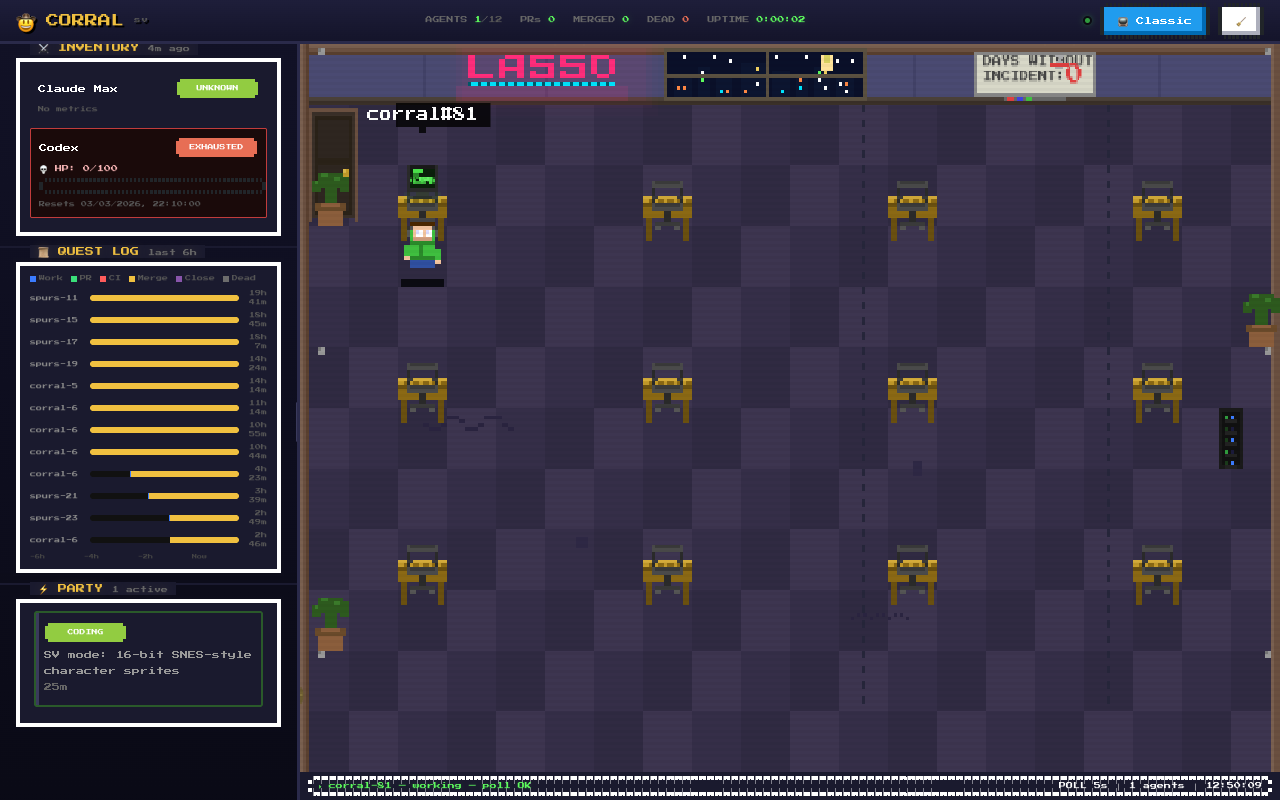
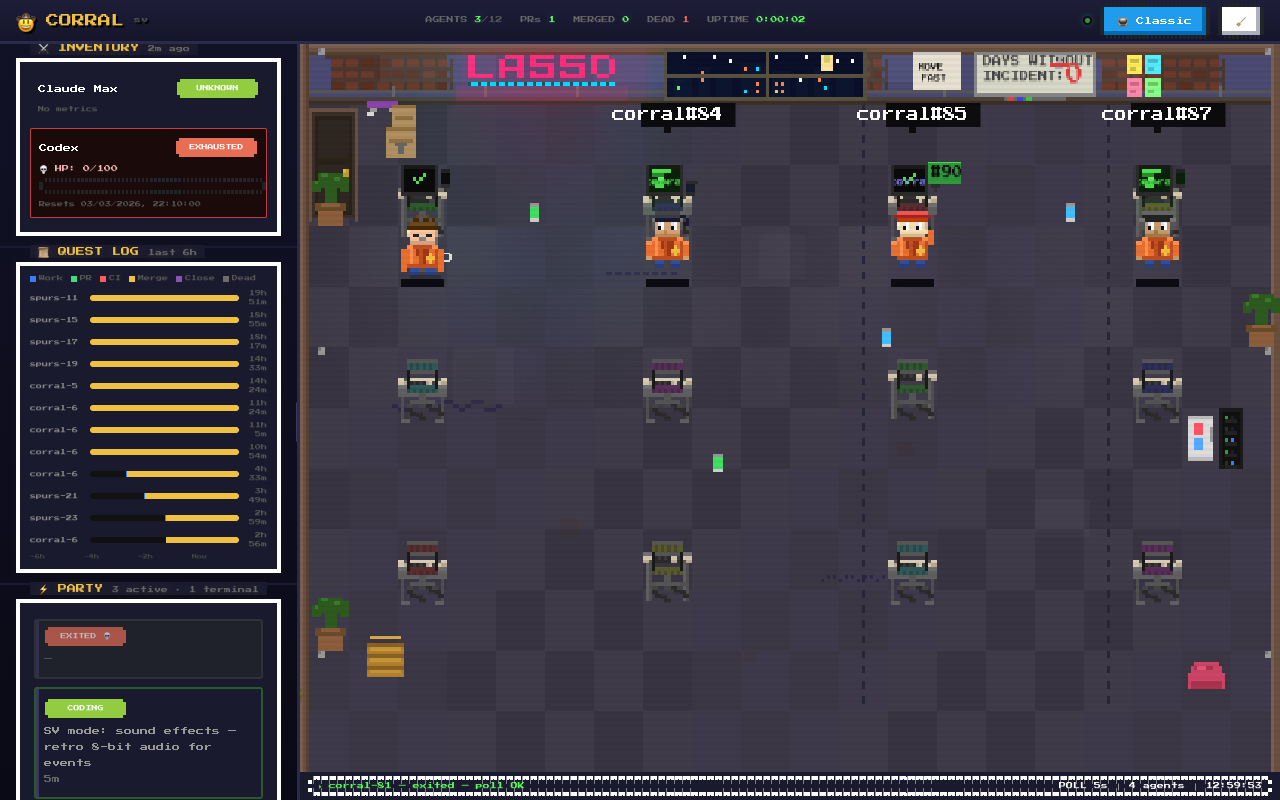
SV mode: day/night cycle matching real time (#87) (#91)
Add ambient time-based lighting to SV canvas scene using local time.
Dawn (6-8AM) and dusk (6-8PM) show warm orange tint with smooth
sine-curve transitions. Night (8PM-6AM) applies blue overlay with
enhanced neon sign glow, brighter ceiling lights, and monitor light
pools. Window reflects sky color changes with stars/moon at night.

diff --git a/sv.html b/sv.html
@@ -1462,6 +1462,48 @@ function detectNewAgents() {
 function R(x, y, w, h, color) { ctx.fillStyle = color; ctx.fillRect(x, y, w, h); }
 function tileRect(tx, ty, tw, th, color) { R(tx * S, ty * S, tw * S, th * S, color); }
 
+// === DAY/NIGHT CYCLE ===
+function getTimeOfDay() {
+  const now = new Date();
+  const h = now.getHours() + now.getMinutes() / 60;
+  // nightFactor: 0 = full day, 1 = full night
+  // Smooth sine-based transitions during dawn (6-8) and dusk (18-20)
+  let nightFactor;
+  if (h >= 8 && h < 18) {
+    nightFactor = 0; // day
+  } else if (h >= 20 || h < 6) {
+    nightFactor = 1; // night
+  } else if (h >= 6 && h < 8) {
+    // dawn: 1 → 0 over 2 hours
+    nightFactor = 0.5 + 0.5 * Math.cos((h - 6) / 2 * Math.PI);
+  } else {
+    // dusk (18-20): 0 → 1 over 2 hours
+    nightFactor = 0.5 - 0.5 * Math.cos((h - 18) / 2 * Math.PI);
+  }
+  // warmFactor peaks during dawn/dusk
+  let warmFactor = 0;
+  if (h >= 6 && h < 8) warmFactor = Math.sin((h - 6) / 2 * Math.PI);
+  else if (h >= 18 && h < 20) warmFactor = Math.sin((h - 18) / 2 * Math.PI);
+  return { nightFactor, warmFactor, hour: h };
+}
+
+function drawDayNightOverlay() {
+  const { nightFactor, warmFactor } = getTimeOfDay();
+  if (nightFactor <= 0 && warmFactor <= 0) return;
+  ctx.save();
+  // Night blue overlay
+  if (nightFactor > 0) {
+    ctx.fillStyle = 'rgba(10,10,40,' + (0.3 * nightFactor).toFixed(3) + ')';
+    ctx.fillRect(0, 0, COLS * TILE * SCALE, ROWS * TILE * SCALE);
+  }
+  // Dawn/dusk warm overlay
+  if (warmFactor > 0) {
+    ctx.fillStyle = 'rgba(255,160,50,' + (0.1 * warmFactor).toFixed(3) + ')';
+    ctx.fillRect(0, 0, COLS * TILE * SCALE, ROWS * TILE * SCALE);
+  }
+  ctx.restore();
+}
+
 function drawFloor() {
   for (let r = 0; r < ROWS; r++)
     for (let c = 0; c < COLS; c++) {
@@ -1504,21 +1546,48 @@ function drawGarageFrame() {
 function drawWindow() {
   ctx.save(); ctx.scale(SCALE, SCALE);
   const x = 120, y = 2, w = 64, h = 12;
-  R(x, y, w, h, '#0a1029');
+  const { nightFactor, warmFactor, hour } = getTimeOfDay();
+  // Sky color: lerp between day blue and night dark
+  const skyR = Math.round(10 + (1 - nightFactor) * 60 + warmFactor * 80);
+  const skyG = Math.round(16 + (1 - nightFactor) * 80 + warmFactor * 40);
+  const skyB = Math.round(41 + (1 - nightFactor) * 100);
+  const skyColor = 'rgb(' + Math.min(skyR,255) + ',' + Math.min(skyG,255) + ',' + Math.min(skyB,255) + ')';
+  R(x, y, w, h, skyColor);
+  // Building silhouette color: darker at night, slightly lighter during day
+  const bldR = Math.round(12 + (1 - nightFactor) * 30);
+  const bldG = Math.round(21 + (1 - nightFactor) * 30);
+  const bldB = Math.round(48 + (1 - nightFactor) * 30);
+  const bldColor = 'rgb(' + bldR + ',' + bldG + ',' + bldB + ')';
   const buildings = [[x+2,y+6,6,6],[x+10,y+4,4,8],[x+16,y+7,5,5],[x+24,y+3,8,9],[x+34,y+5,6,7],[x+42,y+6,4,6],[x+48,y+4,5,8],[x+55,y+7,6,5]];
+  // Building window lights: more visible at night
+  const windowChance = 0.3 + nightFactor * 0.4;
   buildings.forEach(([bx,by,bw,bh]) => {
-    ctx.fillStyle = '#0c1530'; ctx.fillRect(bx, by, bw, bh);
+    ctx.fillStyle = bldColor; ctx.fillRect(bx, by, bw, bh);
     for (let wx = bx + 1; wx < bx + bw - 1; wx += 2)
       for (let wy = by + 1; wy < by + bh - 1; wy += 2)
-        if (Math.random() > 0.5) {
+        if (Math.random() > (1 - windowChance)) {
           ctx.fillStyle = ['#f0d060','#5dfc5d','#00e5ff','#ff8844','#fff'][Math.floor(Math.random()*5)];
           ctx.fillRect(wx, wy, 1, 1);
         }
   });
-  ctx.fillStyle = '#fff';
-  [[x+5,y+1],[x+20,y+2],[x+45,y+1],[x+55,y+2],[x+35,y+1],[x+15,y+1],[x+60,y+2]].forEach(([sx,sy]) => ctx.fillRect(sx, sy, 1, 1));
-  ctx.fillStyle = '#ffe39a'; ctx.fillRect(x+50, y+1, 4, 4);
-  ctx.fillStyle = '#d8d060'; ctx.fillRect(x+51, y+1, 2, 2);
+  // Stars: only visible at night
+  if (nightFactor > 0.3) {
+    ctx.fillStyle = 'rgba(255,255,255,' + (nightFactor * 0.8).toFixed(2) + ')';
+    [[x+5,y+1],[x+20,y+2],[x+45,y+1],[x+55,y+2],[x+35,y+1],[x+15,y+1],[x+60,y+2]].forEach(([sx,sy]) => ctx.fillRect(sx, sy, 1, 1));
+  }
+  // Moon/sun
+  if (nightFactor > 0.3) {
+    // Moon at night
+    ctx.fillStyle = 'rgba(255,240,200,' + (nightFactor * 0.9).toFixed(2) + ')';
+    ctx.fillRect(x+50, y+1, 4, 4);
+    ctx.fillStyle = 'rgba(220,210,160,' + (nightFactor * 0.7).toFixed(2) + ')';
+    ctx.fillRect(x+51, y+1, 2, 2);
+  } else {
+    // Sun during day
+    ctx.fillStyle = '#ffe39a'; ctx.fillRect(x+50, y+1, 4, 4);
+    ctx.fillStyle = '#d8d060'; ctx.fillRect(x+51, y+1, 2, 2);
+  }
+  // Window frame
   ctx.fillStyle = '#5a5040';
   ctx.fillRect(x-1, y-1, w+2, 1); ctx.fillRect(x-1, y+h, w+2, 1);
   ctx.fillRect(x-1, y-1, 1, h+2); ctx.fillRect(x+w, y-1, 1, h+2);
@@ -1539,7 +1608,11 @@ function drawDoor() {
 function drawNeonSign() {
   ctx.save(); ctx.scale(SCALE, SCALE);
   const nx = 55, ny = 3;
-  for (let r = 8; r > 0; r -= 2) R(nx-r, ny-r, 56+r*2, 10+r*2, `rgba(255,45,123,${0.008 * (8-r)})`);
+  const { nightFactor } = getTimeOfDay();
+  // Glow radius and intensity increase at night
+  const glowMult = 1 + nightFactor * 1.5;
+  const maxR = Math.round(8 * glowMult);
+  for (let r = maxR; r > 0; r -= 2) R(nx-r, ny-r, 56+r*2, 10+r*2, 'rgba(255,45,123,' + (0.008 * glowMult * (maxR-r) / maxR * 8).toFixed(4) + ')');
   const L = [[0,0],[0,1],[0,2],[0,3],[0,4],[0,5],[1,5],[2,5],[3,5]];
   const A = [[5,1],[5,2],[5,3],[5,4],[5,5],[6,0],[7,0],[8,0],[8,1],[8,2],[8,3],[8,4],[8,5],[6,3],[7,3]];
   const S1 = [[10,0],[11,0],[12,0],[13,0],[10,1],[10,2],[11,2],[12,2],[13,2],[13,3],[13,4],[10,5],[11,5],[12,5],[13,5],[10,4]];
@@ -1548,7 +1621,9 @@ function drawNeonSign() {
   [L, A, S1, S2, O].forEach(letter => { letter.forEach(([lx, ly]) => R(nx+lx*2, ny+ly, 2, 1, PAL.neonPink)); });
   R(nx, ny+7, 48, 1, PAL.neonCyan);
   for (let i = 0; i < 48; i += 3) R(nx+i, ny+7, 1, 1, '#005a6a');
-  R(nx-4, ny+8, 56, 4, PAL.neonPinkGlow);
+  // Stronger underglow at night
+  const underGlowAlpha = (0.12 + nightFactor * 0.15).toFixed(3);
+  R(nx-4, ny+8, 56, 4, 'rgba(255,45,123,' + underGlowAlpha + ')');
   ctx.restore();
 }
 
@@ -2034,15 +2109,17 @@ function drawWallsSV() {
   for (let x = 0; x < COLS * TILE; x += 30) {
     ctx.fillRect(x, TILE - 5, 1, 3); // conduit brackets
   }
-  // Fluorescent light strips on ceiling
+  // Fluorescent light strips on ceiling — brighter at night
+  const { nightFactor: wallNF } = getTimeOfDay();
+  const flourGlowAlpha = (0.06 + wallNF * 0.12).toFixed(3);
   for (let i = 0; i < 4; i++) {
     const lx = 30 + i * 70, ly = 0;
     ctx.fillStyle = PAL.svFluor;
     ctx.fillRect(lx, ly, 30, 2);
-    ctx.fillStyle = '#fff';
+    ctx.fillStyle = wallNF > 0.3 ? 'rgba(255,255,255,' + (0.8 + wallNF * 0.2).toFixed(2) + ')' : '#fff';
     ctx.fillRect(lx + 2, ly, 26, 1);
     // Glow below
-    ctx.fillStyle = PAL.svFluorGlow;
+    ctx.fillStyle = 'rgba(200,232,255,' + flourGlowAlpha + ')';
     ctx.fillRect(lx - 4, ly + 2, 38, 8);
   }
   ctx.restore();
@@ -2291,25 +2368,55 @@ function drawPropsSV() {
 }
 
 function drawLightingSV() {
-  // Neon sign extended glow on nearby walls/floor
+  const { nightFactor } = getTimeOfDay();
+  // Neon sign extended glow on nearby walls/floor — stronger at night
   const neonCX = (55 + 24) * SCALE;
   const neonCY = 5 * SCALE;
+  const neonAlpha1 = (0.07 + nightFactor * 0.08).toFixed(3);
+  const neonAlpha2 = (0.03 + nightFactor * 0.04).toFixed(3);
   const neonGrad = ctx.createRadialGradient(neonCX, neonCY, 10, neonCX, neonCY + 80, 140);
-  neonGrad.addColorStop(0, 'rgba(255,45,123,0.07)');
-  neonGrad.addColorStop(0.5, 'rgba(0,229,255,0.03)');
+  neonGrad.addColorStop(0, 'rgba(255,45,123,' + neonAlpha1 + ')');
+  neonGrad.addColorStop(0.5, 'rgba(0,229,255,' + neonAlpha2 + ')');
   neonGrad.addColorStop(1, 'rgba(0,0,0,0)');
   ctx.fillStyle = neonGrad;
   ctx.fillRect(neonCX - 140, neonCY - 10, 280, 200);
 
-  // Fluorescent ceiling light glow pools on floor
+  // Fluorescent ceiling light glow pools on floor — brighter at night
+  const ceilAlpha = (0.04 + nightFactor * 0.08).toFixed(3);
   for (let i = 0; i < 4; i++) {
     const lx = (30 + i * 70 + 15) * SCALE;
     const ly = 3 * S;
     const flGrad = ctx.createRadialGradient(lx, ly, 5, lx, ly + 40, 80);
-    flGrad.addColorStop(0, 'rgba(200,232,255,0.04)');
+    flGrad.addColorStop(0, 'rgba(200,232,255,' + ceilAlpha + ')');
     flGrad.addColorStop(1, 'rgba(200,232,255,0)');
     ctx.fillStyle = flGrad;
     ctx.fillRect(lx - 80, ly, 160, 100);
+  }
+
+  // Night: draw visible ceiling light rectangles
+  if (nightFactor > 0.2) {
+    ctx.save(); ctx.scale(SCALE, SCALE);
+    const lightAlpha = (nightFactor * 0.6).toFixed(3);
+    ctx.fillStyle = 'rgba(220,240,255,' + lightAlpha + ')';
+    for (let i = 0; i < 4; i++) {
+      const lx = 30 + i * 70;
+      ctx.fillRect(lx + 4, 0, 22, 2);
+    }
+    ctx.restore();
+  }
+
+  // Night: monitor screens cast visible light pools on nearby floor
+  if (nightFactor > 0.2) {
+    const monGlowAlpha = (nightFactor * 0.05).toFixed(3);
+    DESKS.forEach(d => {
+      const mx = (d.x * TILE + 6) * SCALE;
+      const my = (d.y * TILE + 10) * SCALE;
+      const mGrad = ctx.createRadialGradient(mx, my, 2, mx, my + 20, 40);
+      mGrad.addColorStop(0, 'rgba(74,224,74,' + monGlowAlpha + ')');
+      mGrad.addColorStop(1, 'rgba(74,224,74,0)');
+      ctx.fillStyle = mGrad;
+      ctx.fillRect(mx - 40, my - 5, 80, 50);
+    });
   }
 }
 
@@ -2409,6 +2516,9 @@ function render() {
   drawTumbleweed();
   drawPlant(0, 2); drawPlant(0, 9); drawPlant(COLS - 1, 4);
   drawServerRack((COLS - 1) * TILE - 4, 6 * TILE);
+
+  // Day/night overlay — applied last, over entire scene
+  drawDayNightOverlay();
 
   requestAnimationFrame(render);
 }
